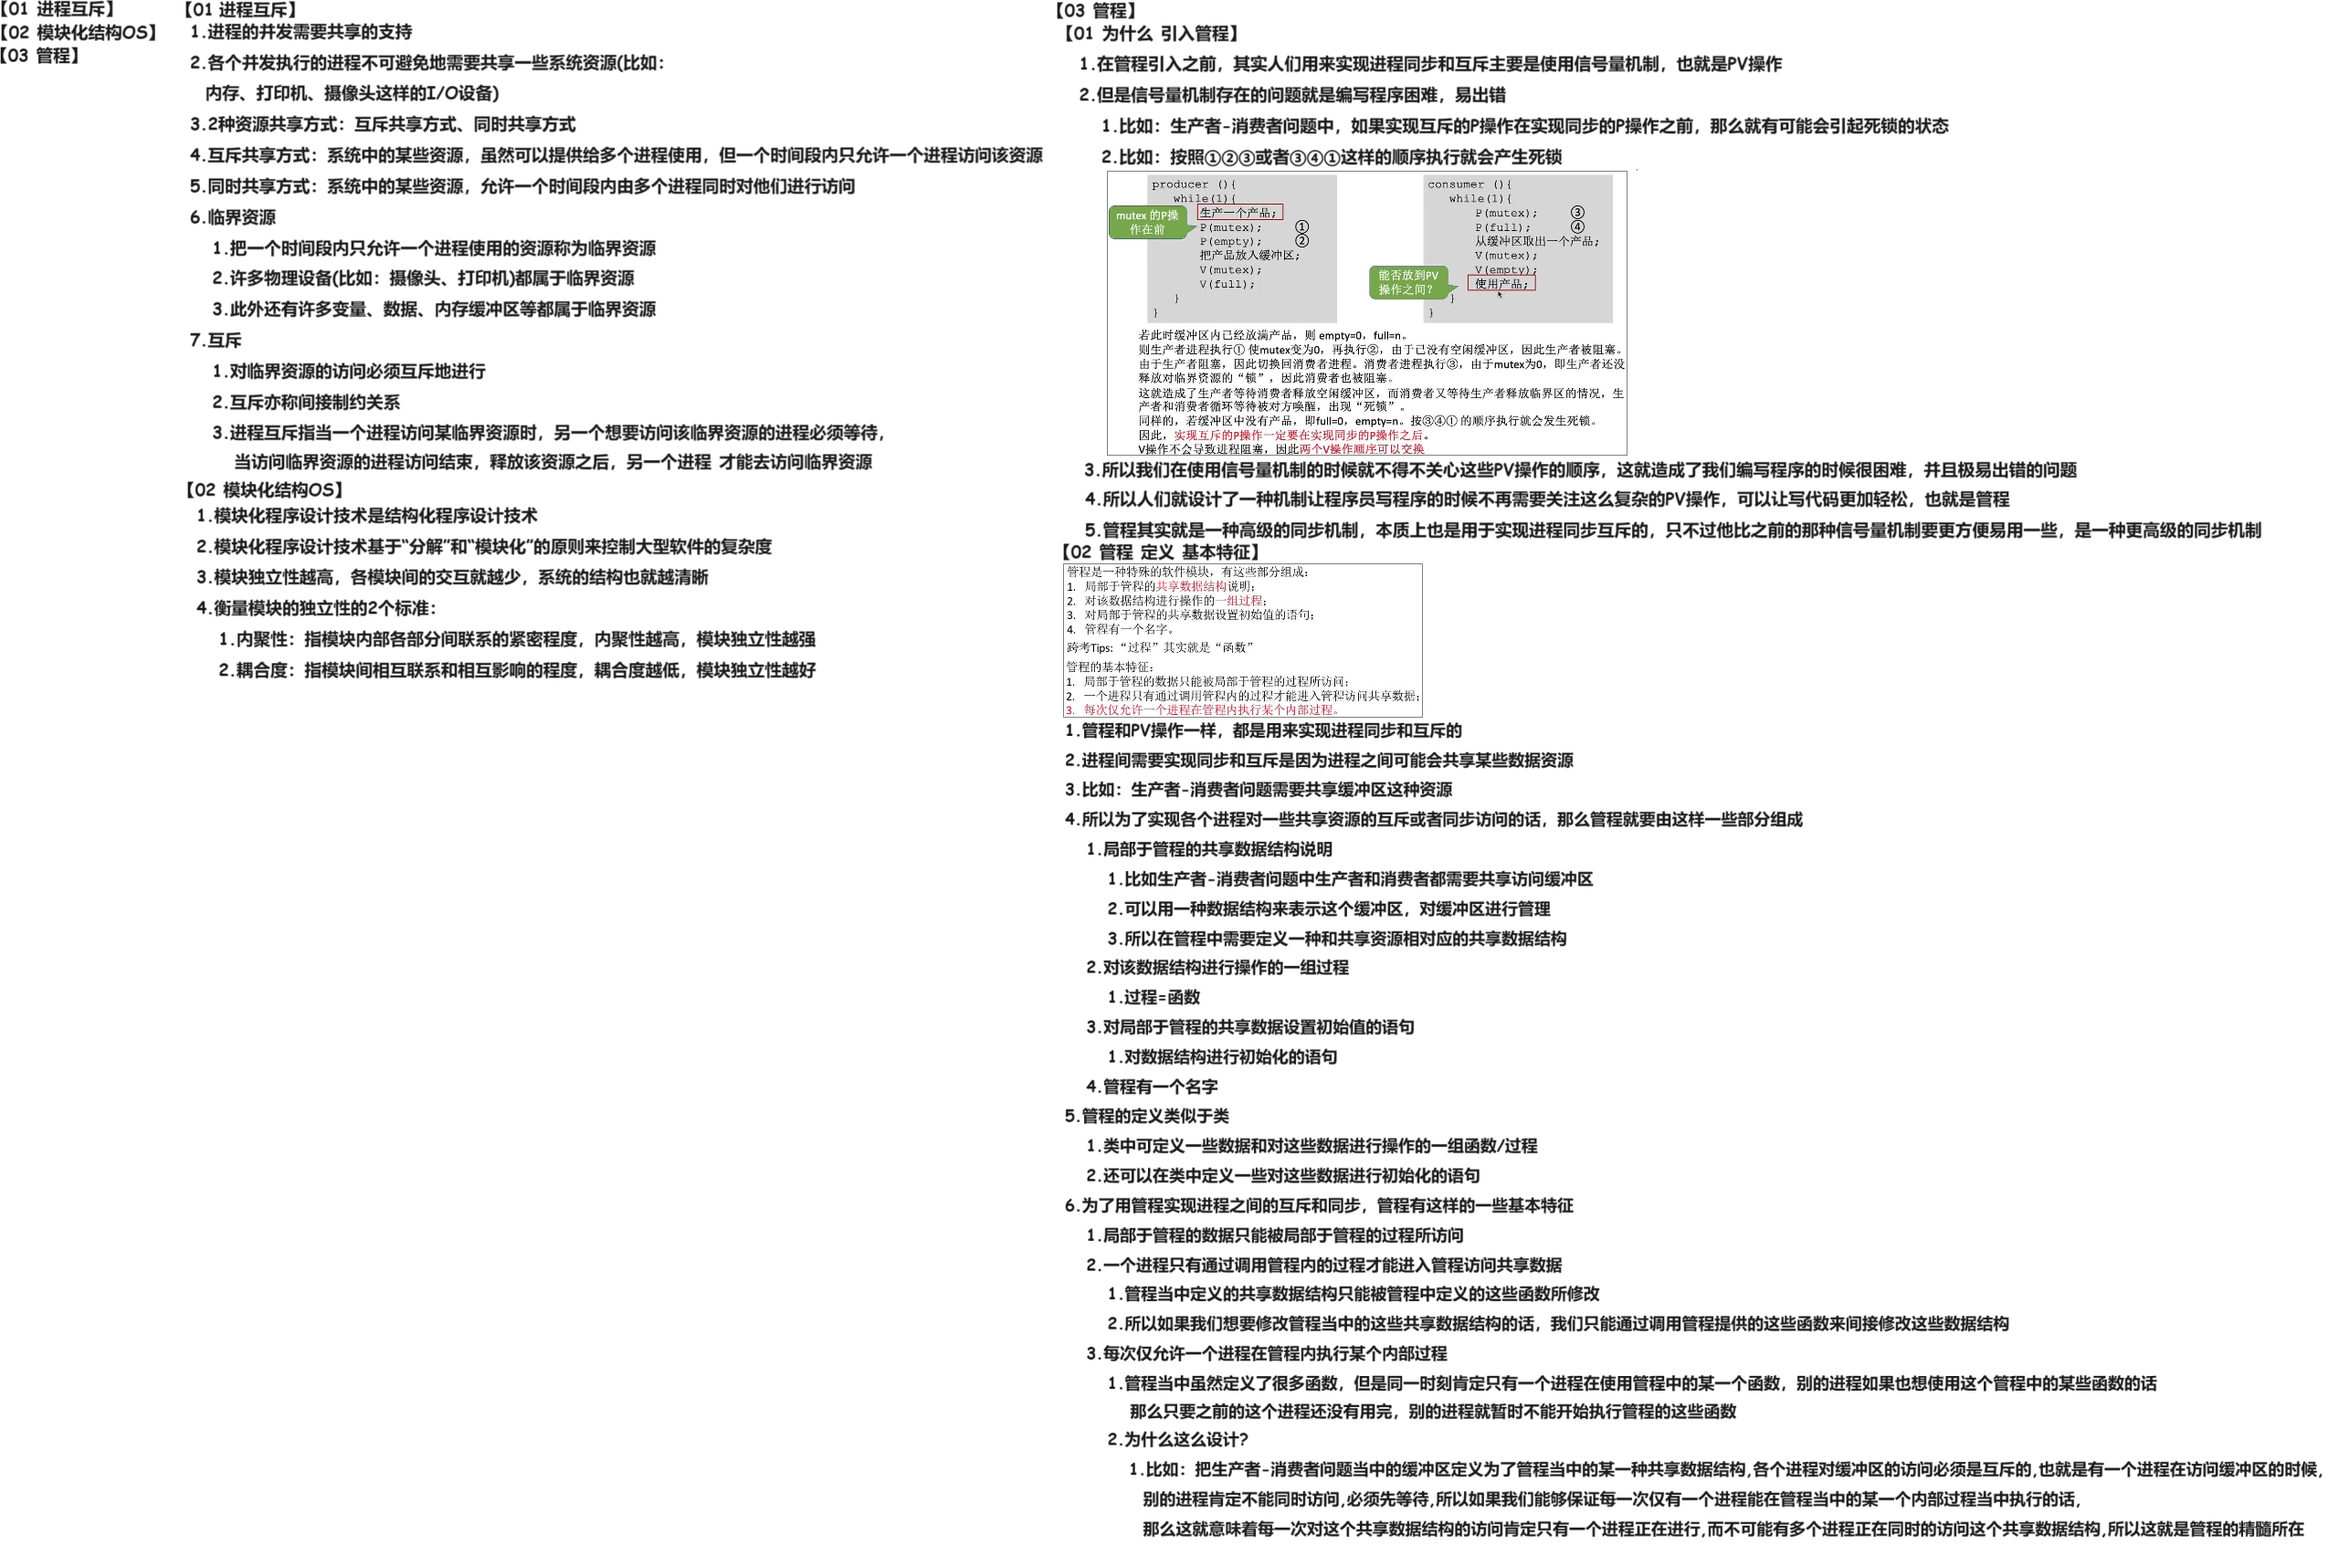
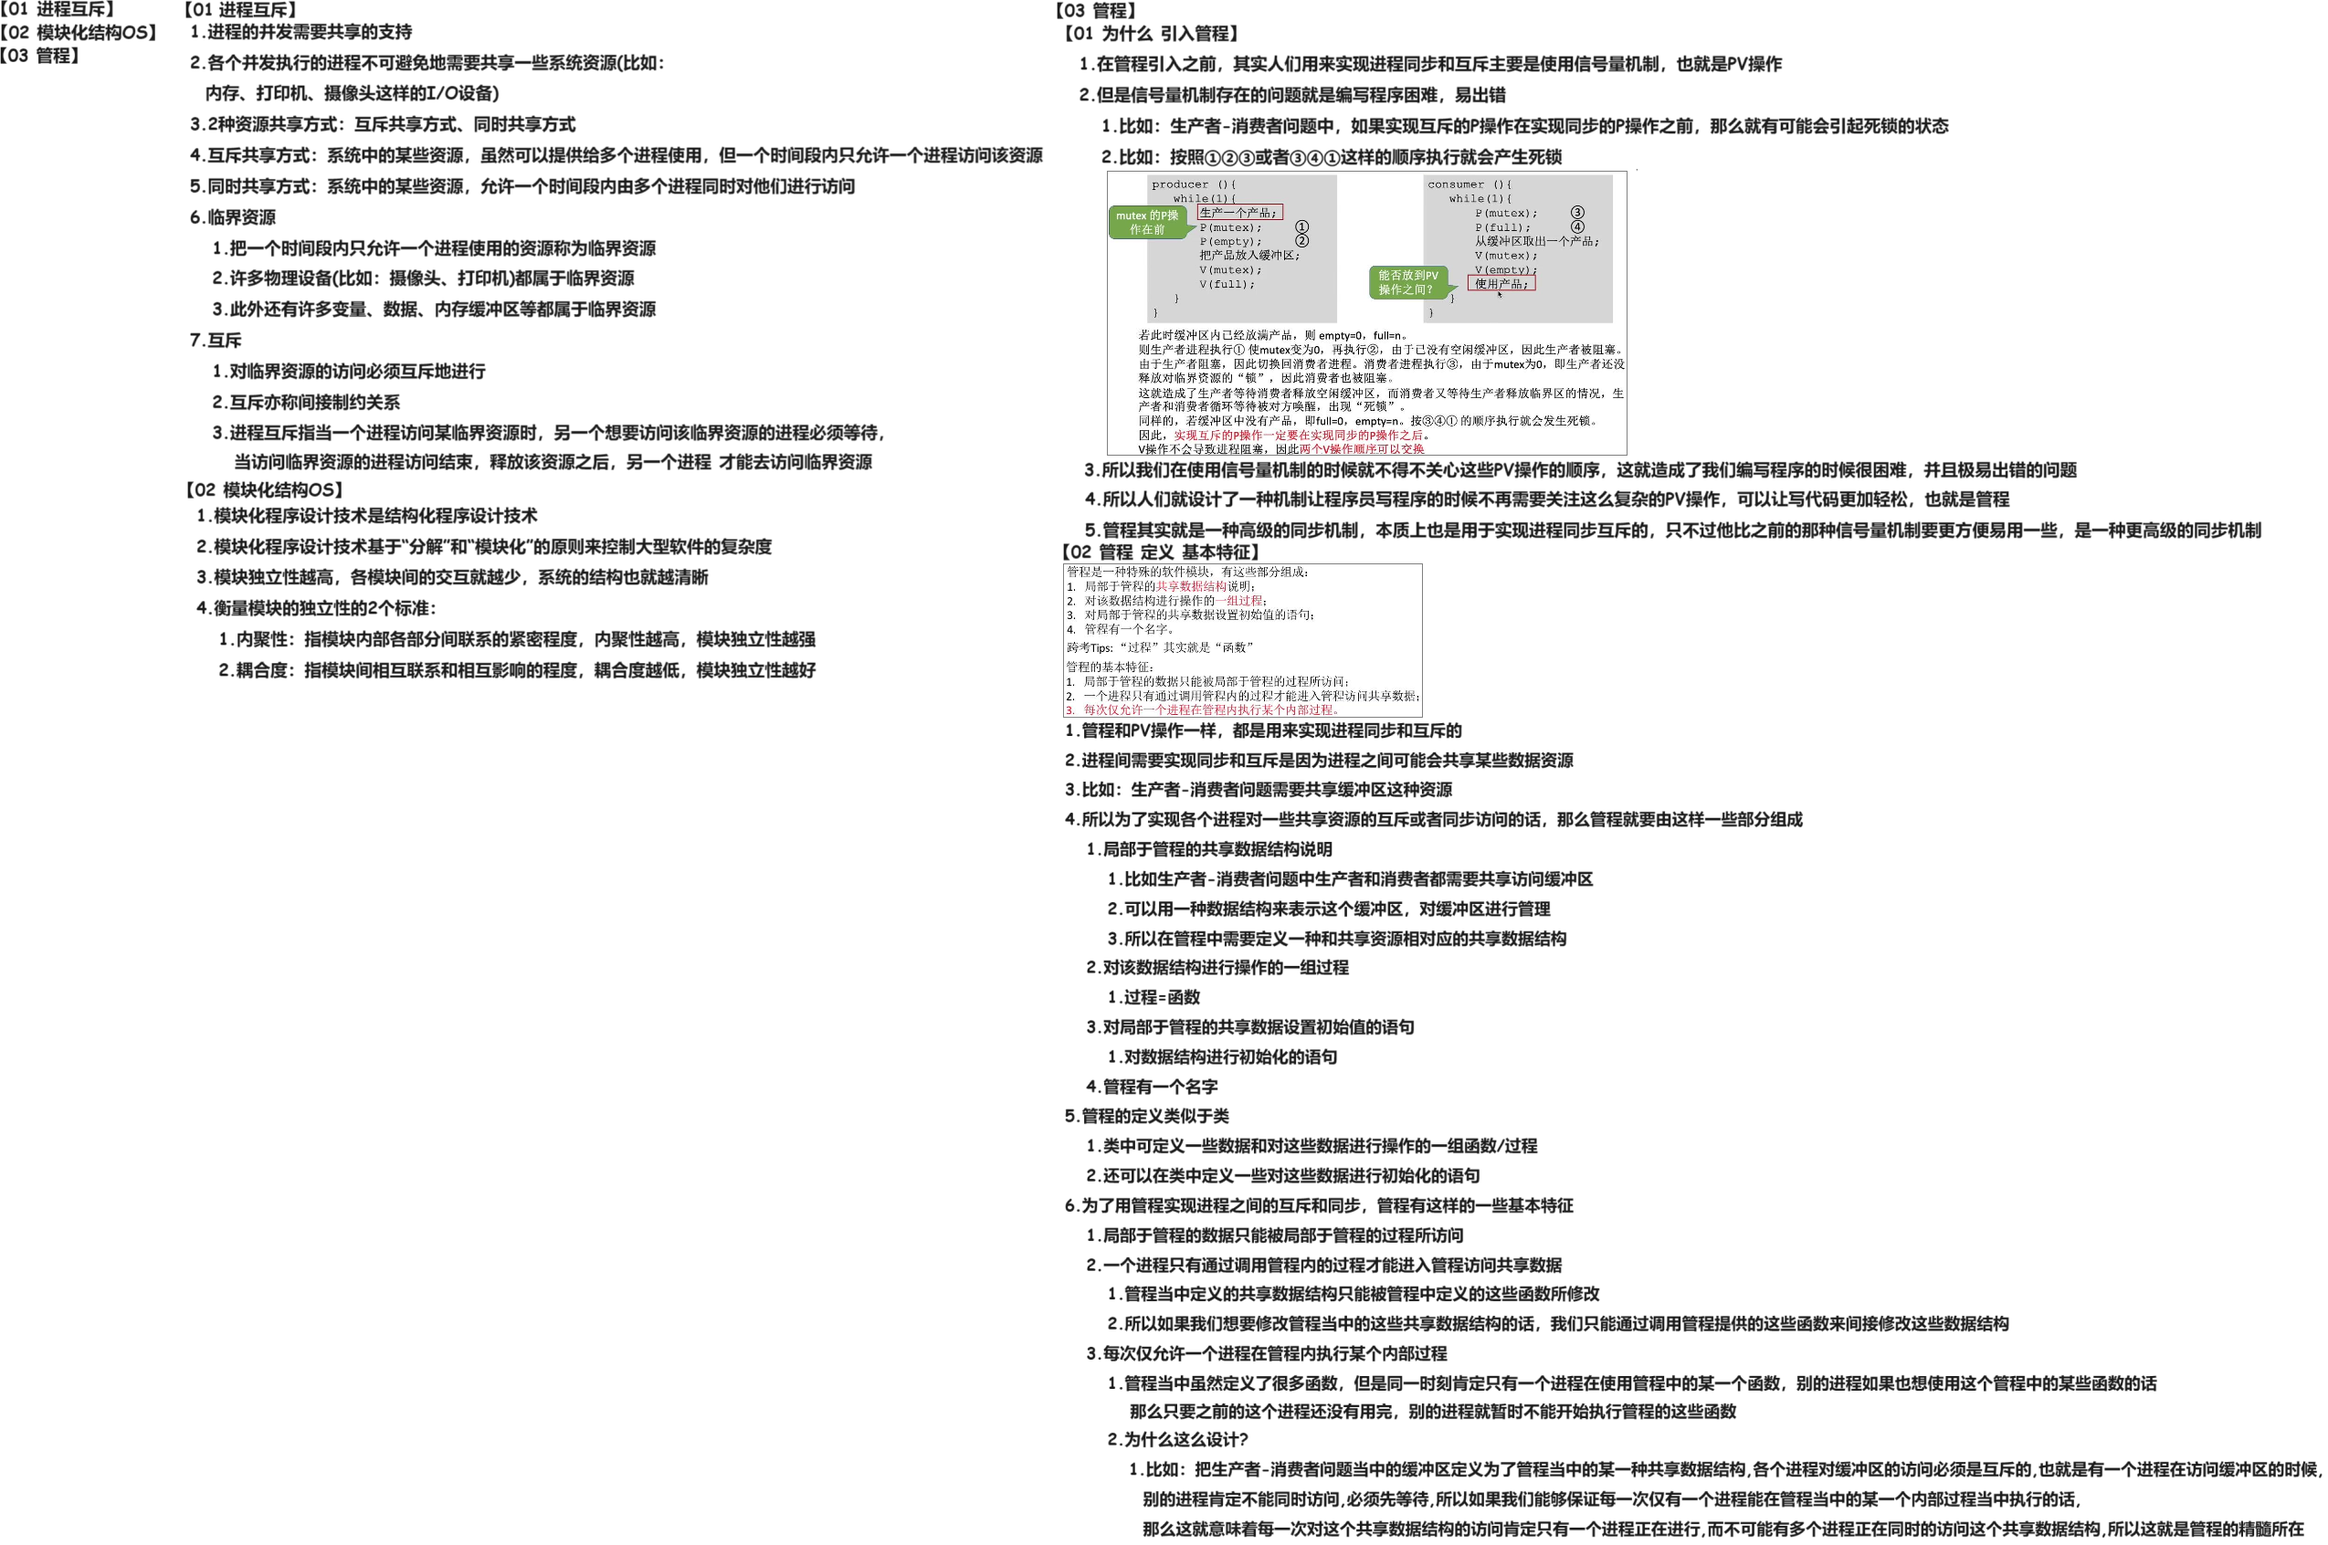
240526

Changed region(s): [[0.062, 0.0307, 1.0, 1.0], [0.0, 0.0307, 0.031, 0.0615]]

diff --git a/01 初试/01 OS/01 题集/01 820/05 22 12/01 小题 12/01 选择题 12 = 4 + 8/01 红果研 820王道 4/01 小题 4/01 选择题 4/02 选择题2 互斥 模块 管程 信号量 管道 240526/02 Doc.md b/01 初试/01 OS/01 题集/01 820/05 22 12/01 小题 12/01 选择题 12 = 4 + 8/01 红果研 820王道 4/01 小题 4/01 选择题 4/02 选择题2 互斥 模块 管程 信号量 管道 240526/02 Doc.md
@@ -1,6 +1,6 @@
 # 00 背诵
 
-![image-20240526153722949](https://cvp.oss-cn-shanghai.aliyuncs.com/picgo/202405261537801.png)
+<img src="https://cvp.oss-cn-shanghai.aliyuncs.com/picgo/202405261540180.png" alt="image-20240526154035517" style="zoom:50%;" />
 
 
 
